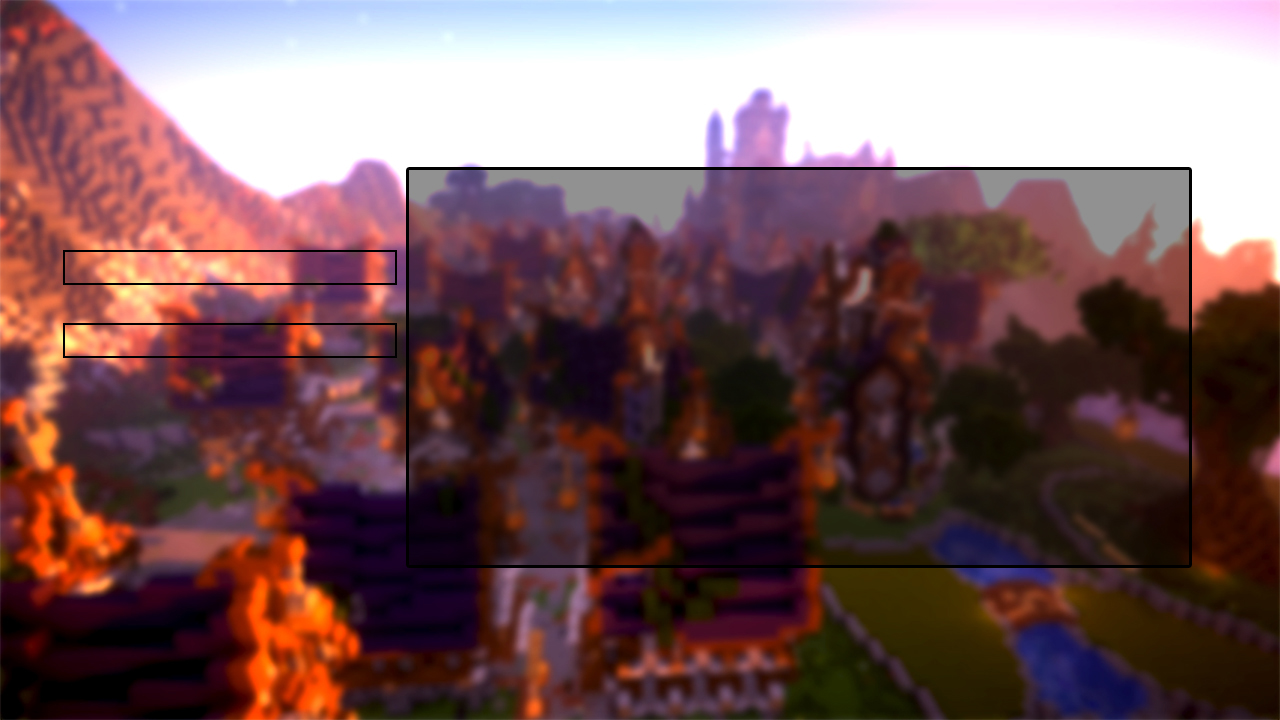
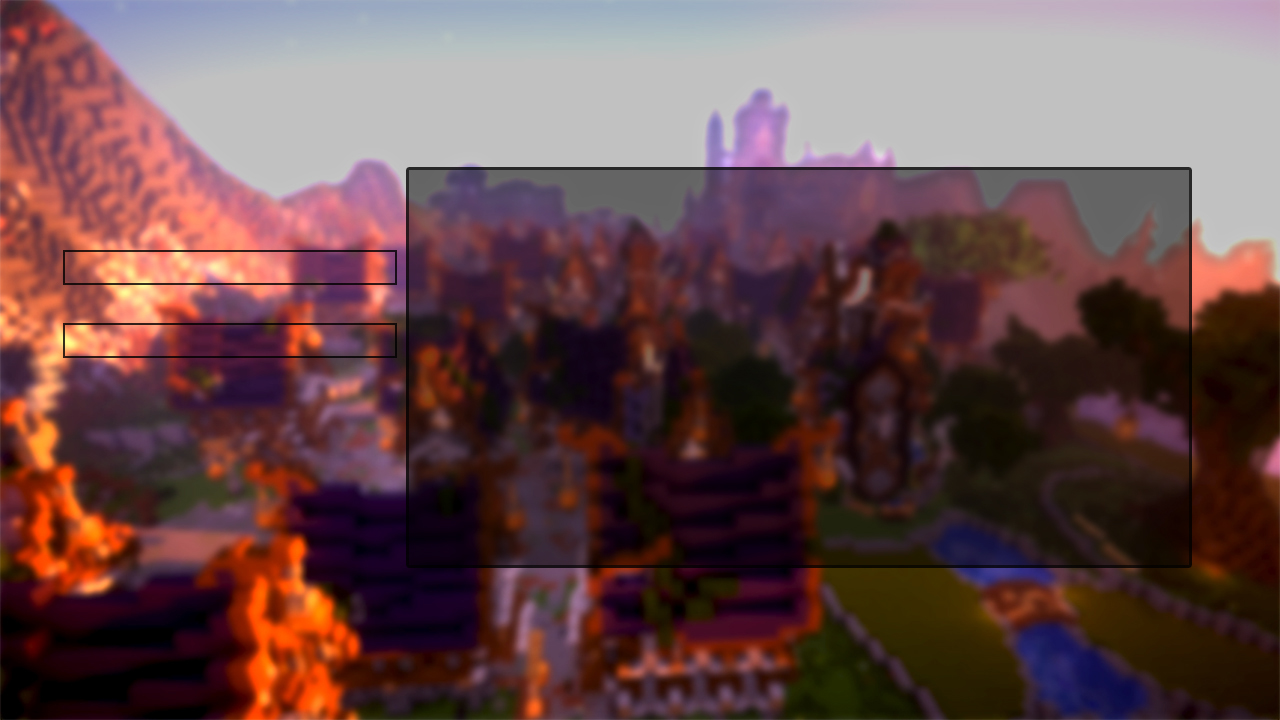
Update news and Text field
Add news label and update textFiels style.
Minor update on background

Changed region(s): [[0.0312, 0.0, 1.0, 0.3972], [0.2812, 0.3361, 0.3125, 0.3972], [0.4688, 0.7639, 0.5, 0.7944]]

diff --git a/src/net/craftyoyo/astrozia/LauncherPanel.java b/src/net/craftyoyo/astrozia/LauncherPanel.java
@@ -72,21 +72,22 @@ public class LauncherPanel extends JPanel implements SwingerEventListener {
 		this.setLayout(null);
 		System.out.println(Launcher.MC_DIR);
 		//Champ nom de compte 
-		usernameField.setOpaque(true);
+		usernameField.setOpaque(false);
 		usernameField.setBorder(null);
-		usernameField.setForeground(Color.BLACK);
-		usernameField.setCaretColor(Color.blue);
-		usernameField.setFont(usernameField.getFont().deriveFont(20F));
+		usernameField.setForeground(Color.black);
+		usernameField.setCaretColor(Color.black);
+		usernameField.setFont(getCustomFont().deriveFont(18F));
 		usernameField.setBounds(65, 252, 330, 31);
 		this.add(usernameField);
 		
 		//Champ Mots de passe
 		
-		passwordField.setOpaque(true);
+		passwordField.setOpaque(false);
 		passwordField.setBorder(null);
-		passwordField.setForeground(Color.BLACK);
-		passwordField.setCaretColor(Color.blue);
-		passwordField.setFont(usernameField.getFont());
+		passwordField.setForeground(Color.black);
+		passwordField.setCaretColor(Color.black);
+		passwordField.setFont(getCustomFont().deriveFont(18F));
+		passwordField.setEchoChar('#');
 		passwordField.setBounds(65, 325, 330, 31);
 		this.add(passwordField);
 		
@@ -136,7 +137,7 @@ public class LauncherPanel extends JPanel implements SwingerEventListener {
 		//Label
 		
 		infoLabel.setForeground(Color.WHITE);
-		infoLabel.setFont(infoLabel.getFont().deriveFont(14F));
+		infoLabel.setFont(getCustomFont().deriveFont(12F));
 		infoLabel.setBounds(0,700 , 1280,20 );
 		this.add(infoLabel);
 		
@@ -162,10 +163,16 @@ public class LauncherPanel extends JPanel implements SwingerEventListener {
   
        
         //new LoadWebPage().setVisible(true);
-        
-        this.jep.setBounds(410, 40, 860, 600);
+        JLabel news = new JLabel("<html><center><font size=10><b>News</b></font></center><br></font></html>" );
+        news.setForeground(Color.white);
+        news.setBounds(412,130, 400,50 );
+        news.setFont(getCustomFont().deriveFont(12F));
+        this.add(news);
+        this.jep.setBounds(411, 171, 860, 600);
 		this.jep.setOpaque(false);
 		this.jep.setBorder(null);
+		this.jep.setBackground( new Color(255, 0, 0, 50) );
+		this.jep.setFont(getCustomFont().deriveFont(20F));
 		this.jep.setEditable(false);
         HTMLEditorKit kit = new HTMLEditorKit();
    
